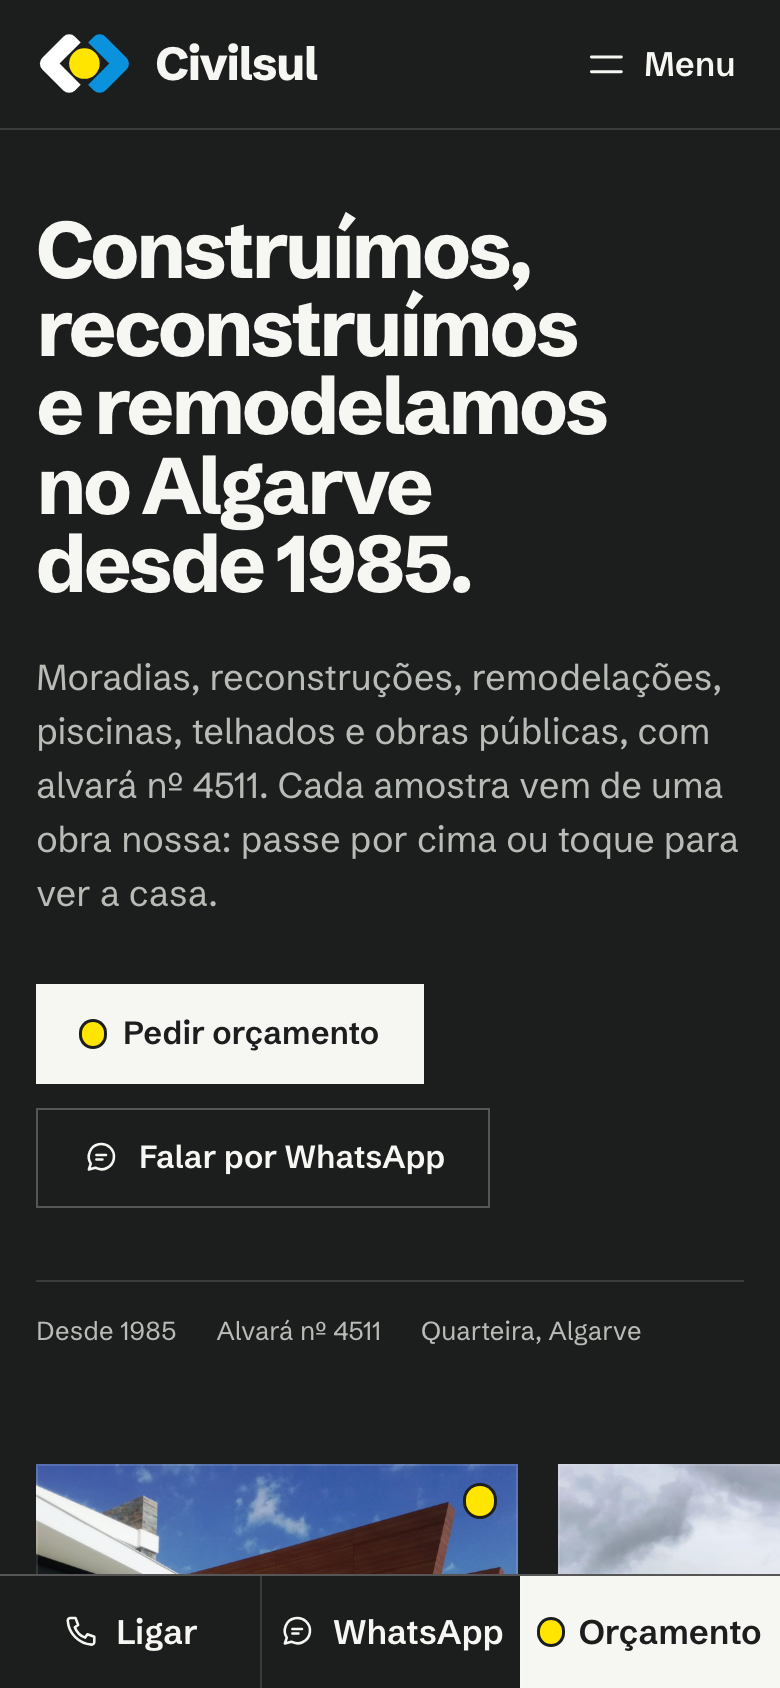
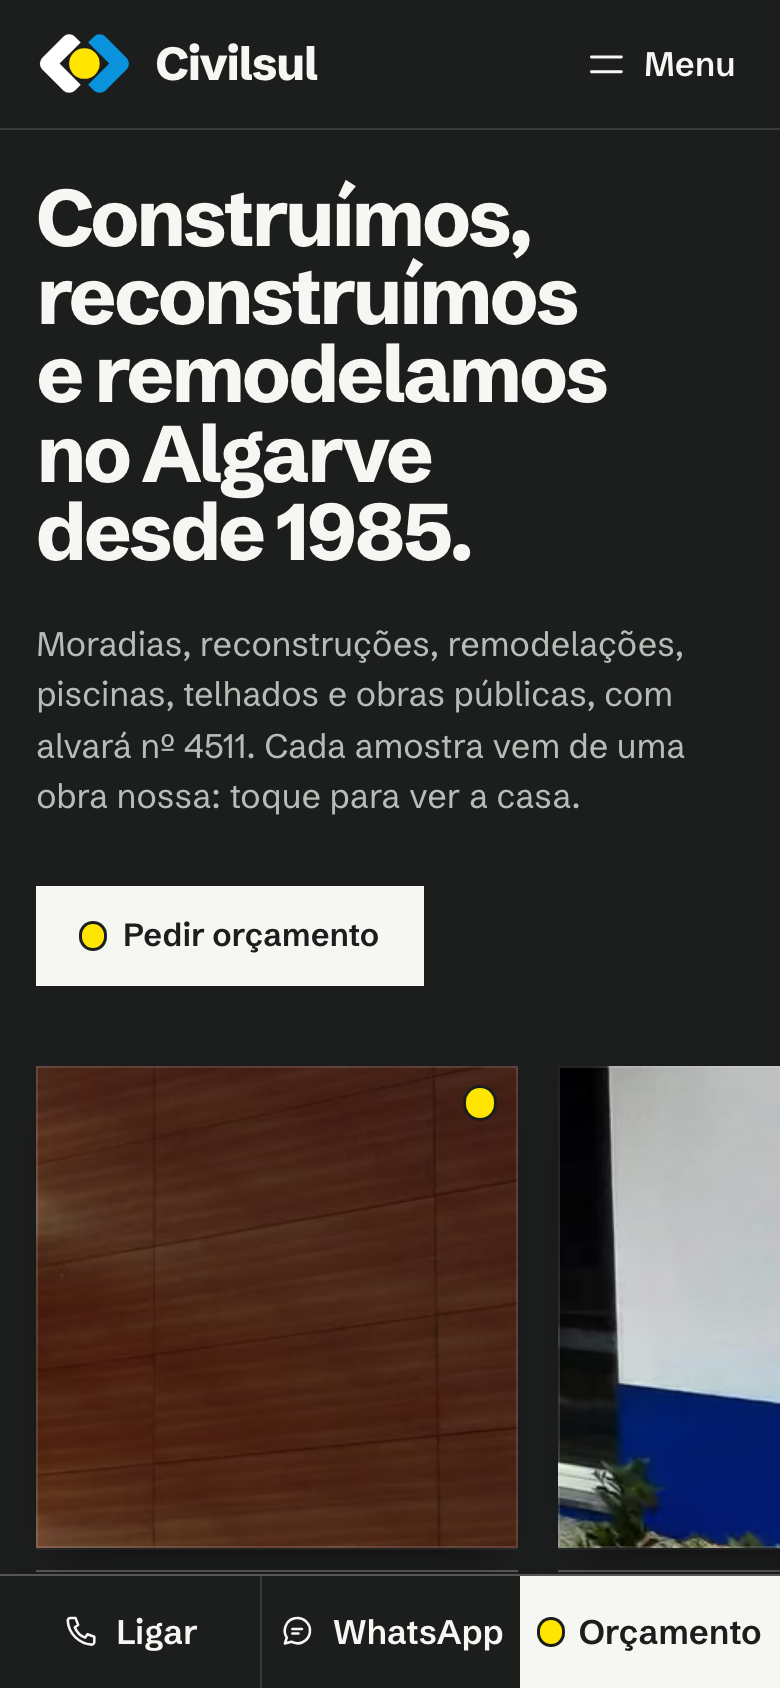
Mostruário: correções da revisão; obras públicas sem fotografia em todas as variantes

diff --git a/src/variants/mostruario/styles.css b/src/variants/mostruario/styles.css
@@ -43,6 +43,8 @@
 
 /* ---- Fundos ---- */
 .board {
+  --rest: 0 1px 0 rgb(255 255 255 / 0.05), 0 12px 22px -14px rgb(0 0 0 / 0.75);
+  --lift: 0 24px 38px -20px rgb(0 0 0 / 0.8);
   --bg: var(--board);
   --fg: var(--lime);
   --fg-2: var(--paper-2);
@@ -54,6 +56,8 @@
   color: var(--lime);
 }
 .lime {
+  --rest: 0 1px 1px rgb(28 30 29 / 0.08), 0 12px 20px -14px rgb(28 30 29 / 0.4);
+  --lift: 0 22px 34px -20px rgb(28 30 29 / 0.55);
   --bg: var(--lime);
   --fg: var(--ink);
   --fg-2: var(--ink-2);
@@ -143,7 +147,11 @@ main:focus { outline: none; }
 
 /* ---- Amostra (chip) ---- */
 .chip { display: grid; align-content: start; gap: 0.7rem; color: var(--fg); text-decoration: none; -webkit-tap-highlight-color: transparent; }
-.chip__frame { position: relative; display: block; overflow: hidden; aspect-ratio: 1; background: var(--board-2); transition: box-shadow var(--open) var(--ease), transform var(--open) var(--ease); }
+.chip__frame {
+  position: relative; display: block; overflow: hidden; aspect-ratio: 1; background: var(--board-2);
+  box-shadow: var(--rest);
+  transition: box-shadow var(--open) var(--ease), transform var(--open) var(--ease);
+}
 .chip--pt .chip__frame { aspect-ratio: 4 / 5; }
 .chip--wide .chip__frame { aspect-ratio: 16 / 10; }
 .chip__frame::after { content: ''; position: absolute; inset: 0; border: 1px solid var(--hair); pointer-events: none; }
@@ -154,8 +162,8 @@ main:focus { outline: none; }
   transition: object-position var(--open) var(--ease), transform var(--open) var(--ease);
 }
 .chip__dot { position: absolute; top: 0.7rem; right: 0.7rem; width: 0.9rem; height: 0.9rem; z-index: 1; }
-.chip__tag { display: grid; gap: 0.2rem; padding-top: 0.55rem; border-top: 1px solid var(--hair); font-size: var(--t-tag); line-height: 1.35; }
-.chip__ref { display: flex; justify-content: space-between; gap: 0.75rem; color: var(--fg-2); font-weight: 500; }
+.chip__tag { display: grid; gap: 0.15rem; padding: 0.45rem 0 0.5rem; border-top: 1px solid var(--hair-2); border-bottom: 1px solid var(--hair); font-size: var(--t-tag); line-height: 1.35; }
+.chip__ref { display: flex; justify-content: space-between; gap: 0.75rem; color: var(--fg-2); font-weight: 500; font-size: 0.78rem; letter-spacing: 0.01em; }
 .chip__head { text-align: right; }
 .chip__swap { display: grid; font-size: 0.9375rem; font-weight: 620; line-height: 1.3; }
 .chip__swap > * { grid-area: 1 / 1; transition: opacity 450ms var(--ease), transform var(--open) var(--ease); }
@@ -167,17 +175,27 @@ main:focus { outline: none; }
 .chip.is-open .chip__img, .chip--open:not(.is-crop) .chip__img, .chip:focus-visible .chip__img { object-position: var(--hx) var(--hy); transform: scale(1); }
 .chip.is-open .chip__mat, .chip--open:not(.is-crop) .chip__mat, .chip:focus-visible .chip__mat { opacity: 0; transform: translateY(-0.5em); }
 .chip.is-open .chip__work, .chip--open:not(.is-crop) .chip__work, .chip:focus-visible .chip__work { opacity: 1; transform: none; }
-.chip.is-open .chip__frame, .chip:focus-visible .chip__frame { box-shadow: 0 22px 36px -22px rgb(0 0 0 / 0.7); transform: translateY(-3px); }
+.chip.is-open .chip__frame, .chip:focus-visible .chip__frame { box-shadow: var(--lift); transform: translateY(-3px); }
 .chip:focus-visible { outline: none; }
 .chip:focus-visible .chip__frame { outline: 2px solid var(--ring); outline-offset: 3px; }
 @media (hover: hover) {
   .chip:hover .chip__img { object-position: var(--hx) var(--hy); transform: scale(1); }
   .chip:hover .chip__mat { opacity: 0; transform: translateY(-0.5em); }
   .chip:hover .chip__work { opacity: 1; transform: none; }
-  a.chip:hover .chip__frame { box-shadow: 0 22px 36px -22px rgb(0 0 0 / 0.7); transform: translateY(-3px); }
+  a.chip:hover .chip__frame { box-shadow: var(--lift); transform: translateY(-3px); }
 }
-.lime .chip.is-open .chip__frame, .lime .chip:focus-visible .chip__frame { box-shadow: 0 20px 34px -22px rgb(28 30 29 / 0.55); }
-@media (hover: hover) { .lime a.chip:hover .chip__frame { box-shadow: 0 20px 34px -22px rgb(28 30 29 / 0.55); } }
+
+/* ---- Amostra em branco (sem fotografia) ---- */
+.swatch {
+  position: relative; display: grid; align-items: end; aspect-ratio: 1; padding: 1.1rem 1.2rem;
+  background: var(--board); color: var(--lime); box-shadow: var(--rest);
+}
+.swatch--wide { aspect-ratio: 16 / 10; }
+.swatch::before { content: ''; position: absolute; inset: 0.6rem; border: 1px dashed var(--hair-b2); pointer-events: none; }
+.swatch__print { position: relative; display: grid; gap: 0.15rem; line-height: 1.25; }
+.swatch__print strong { font-weight: 680; font-size: 1.05rem; letter-spacing: -0.01em; }
+.swatch--wide .swatch__print strong { font-size: clamp(1.3rem, 1rem + 1vw, 1.75rem); letter-spacing: -0.02em; }
+.swatch__print span { color: var(--paper-2); font-size: var(--t-tag); }
 
 /* ---- Parede de amostras ---- */
 .wall { display: grid; gap: 1.5rem 1.25rem; grid-template-columns: repeat(3, minmax(0, 1fr)); }

diff --git a/src/variants/mostruario/samples.ts b/src/variants/mostruario/samples.ts
@@ -39,7 +39,7 @@ export const LEAD: Record<string, string> = {
   remodelacoes: 'S-03',
   piscinas: 'S-04',
   telhados: 'S-05',
-  'obras-publicas': 'S-06',
+  // Obras públicas: nenhuma obra do portefólio é identificada como obra pública → amostra só com texto.
 };
 
 /** Tipo de obra do pedido de orçamento → amostra (o "outro" fica em branco). */
@@ -53,13 +53,23 @@ export const TYPE_SAMPLE: Record<string, string | undefined> = {
 
 export const sampleByCode = (code: string) => SAMPLES.find((s) => s.code === code)!;
 export const sampleForWork = (id: string) => SAMPLES.find((s) => s.work === id)!;
-export const leadSample = (serviceId: string) => sampleByCode(LEAD[serviceId]);
+export const leadSample = (serviceId: string): Sample | undefined => (LEAD[serviceId] ? sampleByCode(LEAD[serviceId]) : undefined);
+
+/** Parede do primeiro ecrã: seis amostras reais, cada uma com a família da obra de onde vem. */
+export const HERO_WALL: { code: string; family: string }[] = [
+  { code: 'S-01', family: 'moradias' },
+  { code: 'S-02', family: 'reconstrucao' },
+  { code: 'S-03', family: 'remodelacoes' },
+  { code: 'S-04', family: 'piscinas' },
+  { code: 'S-05', family: 'telhados' },
+  { code: 'S-06', family: 'reconstrucao' },
+];
 export const workOf = (s: Sample): Work => workById(s.work);
 
 /** Amostras das obras relacionadas com um serviço, sem a principal. */
 export function familySamples(serviceId: string, works: string[], max = 3) {
   const lead = leadSample(serviceId);
-  return works.filter((w) => w !== lead.work).map(sampleForWork).slice(0, max);
+  return works.filter((w) => w !== lead?.work).map(sampleForWork).slice(0, max);
 }
 
 /** Pré-seleção do tipo de obra no pedido de orçamento a partir do serviço. */

diff --git a/src/variants/mostruario/copy.ts b/src/variants/mostruario/copy.ts
@@ -5,7 +5,9 @@ export const C = {
   quick: 'Ações rápidas',
   quoteShort: 'Orçamento',
   heroH: 'Construímos, reconstruímos e remodelamos no Algarve desde 1985.',
-  heroLead: 'Moradias, reconstruções, remodelações, piscinas, telhados e obras públicas, com alvará nº 4511. Cada amostra vem de uma obra nossa: passe por cima ou toque para ver a casa.',
+  heroLead: 'Moradias, reconstruções, remodelações, piscinas, telhados e obras públicas, com alvará nº 4511.',
+  heroLead2: 'Cada amostra vem de uma obra nossa: passe por cima ou toque para ver a casa.',
+  heroLead2m: 'Cada amostra vem de uma obra nossa: toque para ver a casa.',
   heroWa: 'Falar por WhatsApp',
   wallLabel: 'Amostras tiradas das obras da Civilsul',
   applied: 'Aplicado em',
@@ -70,6 +72,8 @@ export const C = {
   noJs: 'Preencha os quatro passos e envie por email.',
   optional: 'opcional',
   blank: 'Em branco',
+  publicSub: 'Alvará nº 4511',
+  noRelated: 'As obras públicas não fazem parte do portefólio fotográfico deste site. Fale connosco para saber mais.',
   step: 'Passo',
   of: 'de',
   pref: { telefone: 'Telefone', whatsapp: 'WhatsApp', email: 'Email' },

diff --git a/src/variants/padrao/copy.ts b/src/variants/padrao/copy.ts
@@ -93,13 +93,13 @@ export const C = {
 } satisfies Record<string, T | Record<string, T>>;
 
 /** Fotografia que representa cada serviço (obra real associada). */
-export const SERVICE_PHOTO: Record<string, string> = {
+/** Obras públicas não tem fotografia: nenhuma obra do portefólio está identificada como obra pública. */
+export const SERVICE_PHOTO: Partial<Record<string, string>> = {
   moradias: 'vale-del-rey',
   reconstrucao: 'monte-do-pocinho',
   remodelacoes: 'maison-amarande',
   piscinas: 'arranjos-exteriores-piscina',
   telhados: 'remodelacao-moradia',
-  'obras-publicas': 'reconstrucao-edificio',
 };
 
 /** ?tipo= do pedido de orçamento por serviço. */

diff --git a/src/variants/mapa/copy.ts b/src/variants/mapa/copy.ts
@@ -91,6 +91,7 @@ export const C = {
   seeService: { pt: 'Ver artigo', en: 'Open item' },
   seeWork: { pt: 'Ver obra', en: 'Open project' },
   contents: { pt: 'Índice', en: 'Index' },
+  noPhotos: { pt: 'Sem fotografias publicadas', en: 'No photographs published' },
   total: { pt: 'Total', en: 'Total' },
   totalLine: (lang: Lang, arts: number, items: number, plates: number) =>
     lang === 'pt' ? `${arts} artigos · ${plates} pranchas em anexo` : `${arts} items · ${plates} plates in annex`,

diff --git a/src/content/services.ts b/src/content/services.ts
@@ -129,7 +129,8 @@ export const SERVICES: Service[] = [
       { pt: 'Urbanizações', en: 'Urban developments' },
     ],
     searches: { pt: 'Construtora de obras públicas no Algarve', en: 'Public works contractor in the Algarve' },
-    works: ['reconstrucao-edificio', 'fachada-portaldegenios'],
+    // O site atual não identifica nenhuma obra do portefólio como obra pública: não associar fotografias.
+    works: [],
   },
 ];
 
